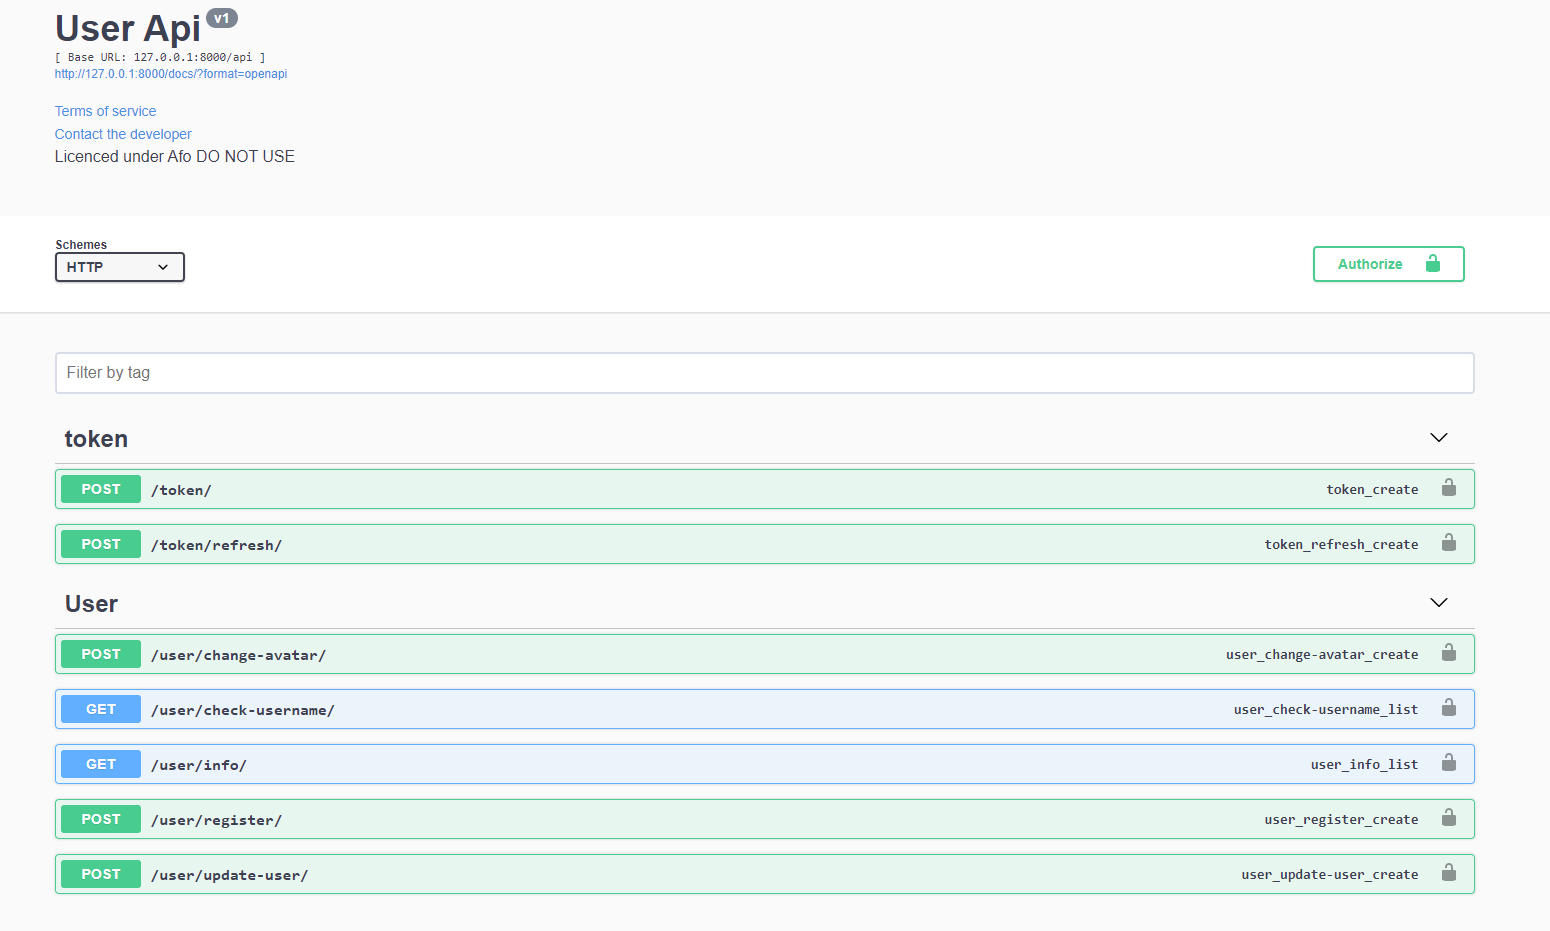
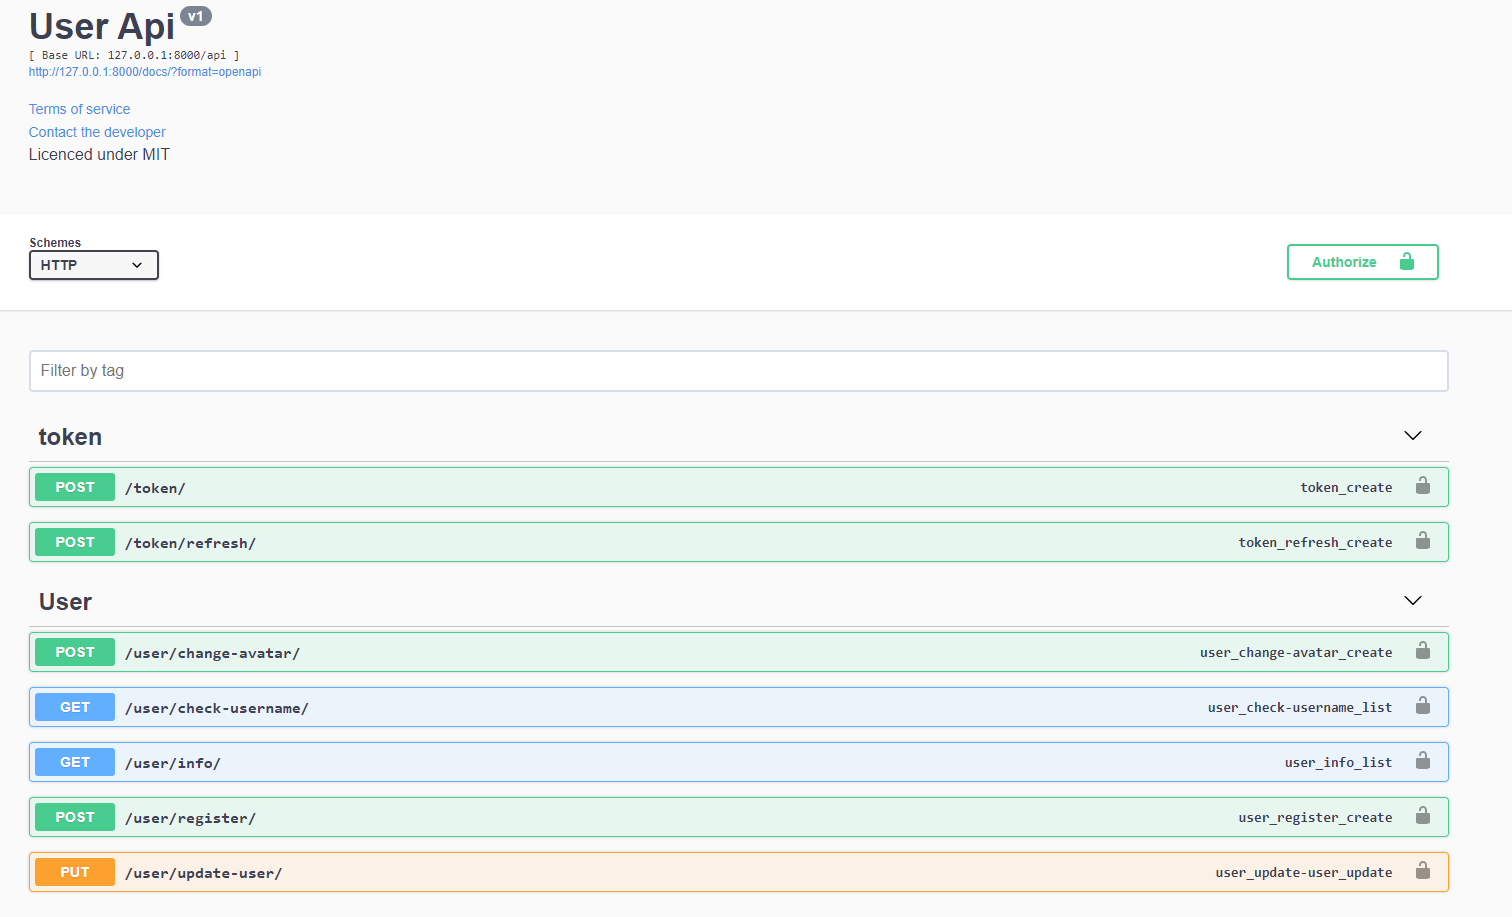
changing image

diff --git a/user/views/v1/update_user.py b/user/views/v1/update_user.py
@@ -12,8 +12,8 @@ from common.decarators import get_user
 RESPONSE = generate_200_base_response()
 
 
-@swagger_auto_schema(tags=['User'], operation_description="Change User Informations", method="POST", request_body=UserUpdateParameterSerializer, responses=RESPONSE, USE_SESSION_AUTH=False)
-@api_view(["POST"])
+@swagger_auto_schema(tags=['User'], operation_description="Change User Informations", method="PUT", request_body=UserUpdateParameterSerializer, responses=RESPONSE, USE_SESSION_AUTH=False)
+@api_view(["PUT"])
 @validator("body", UserUpdateParameterSerializer)
 @get_user()
 def update_user(request, serializer, user):
